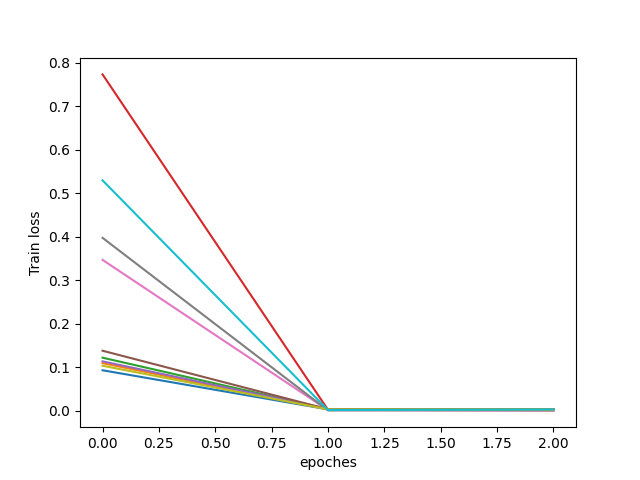
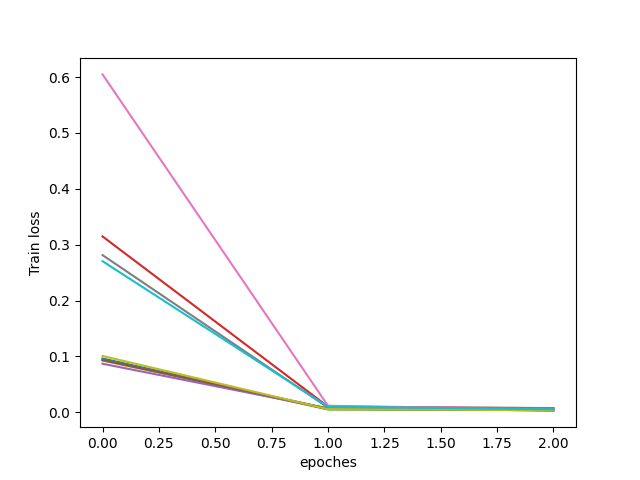
Friday summary

diff --git a/demo.py b/demo.py
@@ -162,27 +162,40 @@ import matplotlib.pyplot as plt
 # list.append(list2)
 # print(np.array(list).mean(axis=0))
 
+# #
+# from option import args_parser
+# if __name__ == '__main__':
+#     args = args_parser()
+#     print(args.new_collaborative_training)
+#     args.new_collaborative_training = True
+#     print(args.new_collaborative_training)
 #
-from option import args_parser
-if __name__ == '__main__':
-    args = args_parser()
-    print(args.new_collaborative_training)
-    args.new_collaborative_training = True
-    print(args.new_collaborative_training)
-
-#!/usr/bin/python
-# -*- coding: UTF-8 -*-
-
-import os, sys
-
-# 列出目录
-print ("目录为: %s"%os.listdir('Src/CollaborativeModel'))
-
-for item in os.listdir('Src/CollaborativeModel'):
-    os.rename(item)
+# #!/usr/bin/python
+# # -*- coding: UTF-8 -*-
+#
+# import os, sys
+#
+# # 列出目录
+# print ("目录为: %s"%os.listdir('Src/CollaborativeModel'))
+#
+# for item in os.listdir('Src/CollaborativeModel'):
+#     os.rename(item)
 # 重命名
 # os.rename("test","test2")
 
 # print "重命名成功。"
 
 # 列出重命名后的目录
+
+def transpose( matrix):
+    new_matrix = []
+    for i in range(len(matrix[0])):
+        matrix1 = []
+        for j in range(len(matrix)):
+            matrix1.append(matrix[j][i])
+        new_matrix.append(matrix1)
+    return new_matrix
+
+marix=[[1,1,1,1],[2,2,2,2],[3,3,3,3]]
+print(marix)
+print(transpose(marix))

diff --git a/Collaborative_step.py b/Collaborative_step.py
@@ -3,6 +3,16 @@ from  collaborative_private_model_femnist_balanced import collaborative_private_
 from  collaborative_train_balanced_mnist import collaborative_private_model_mnist_train
 from collaborative_model_femnist_Accuracy import test_accuracy_collaborativemodel
 import matplotlib.pyplot as plt
+
+def transpose( matrix):
+    new_matrix = []
+    for i in range(len(matrix[0])):
+        matrix1 = []
+        for j in range(len(matrix)):
+            matrix1.append(matrix[j][i])
+        new_matrix.append(matrix1)
+    return new_matrix
+
 if __name__ == '__main__':
     args = args_parser()
     accuracy = []
@@ -13,7 +23,7 @@ if __name__ == '__main__':
         collaborative_private_model_mnist_train(args)
         collaborative_private_model_femnist_train(args)
         accuracy.append(eachround_accuracy)
-
+    accuracy = transpose(transpose)
     for i, val in enumerate(accuracy):
         print(val)
         plt.plot(range(len(val)), val)

diff --git a/option.py b/option.py
@@ -28,7 +28,7 @@ def args_parser():
     parser.add_argument('--collaborative_epoch',type=int,default=3,help='collaborative_epoch for train on public mnist')
 
     # Collaborative_step
-    parser.add_argument('--Communicationepoch',type=int,default=5,help='Collaorative epoch in Step3')
+    parser.add_argument('--Communicationepoch',type=int,default=3,help='Collaorative epoch in Step3')
 
 
     args = parser.parse_args()
